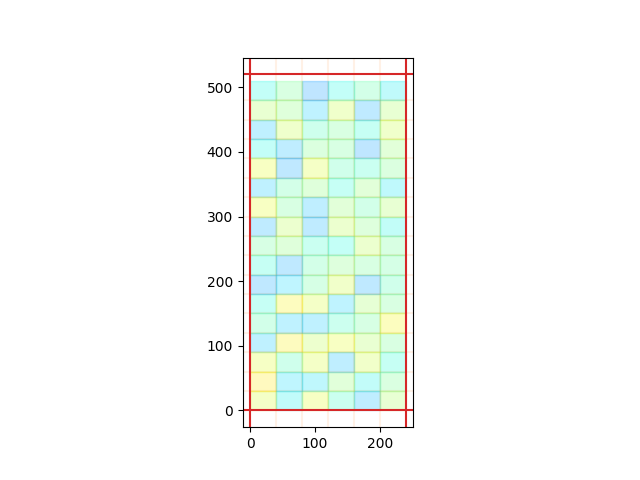
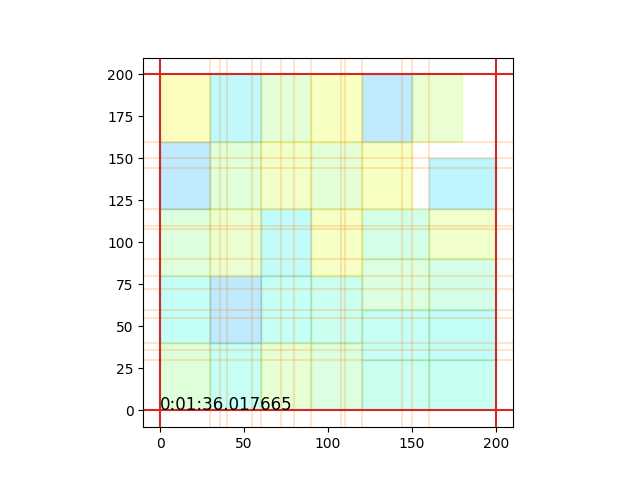
optimized input variables

diff --git a/cuttingStock.py b/cuttingStock.py
@@ -6,16 +6,21 @@ import subprocess
 import numpy as np
 from lib import *
 from config import *
+import time,datetime
+
 
 print("Cutting Stock 2D")
 print("\n###############################################")
-print("Constants:")
-x_pos = calculateSteps( ancho_muro, anchos_poster)
-y_pos = calculateSteps( alto_muro, altos_posters)
-print(x_pos)
-print(y_pos)
 print("Posters:")
 print(posters)
+print("Positions:")
+x_pos = calculateSteps( ancho_muro, anchos_posters)
+y_pos = calculateSteps( alto_muro, altos_posters)
+rectangles = filterOutOfRange(generatePossibleRectangles(x_pos,y_pos,posters),alto_muro,ancho_muro)
+print(x_pos)
+print(y_pos)
+#print("rectangles:")
+#print(rectangles)
 for x in x_pos:
     addVline(x)
 for y in y_pos:
@@ -26,24 +31,18 @@ addVline(0,alpha=1,color = 'tab:red')
 addHline(0,alpha=1,color = 'tab:red')
 print("###############################################")
 print("Writing Input Files")
-writeFile("posters.txt", valuesToZPLTuple(posters))
-writeFile("altos.txt", valuesToZPLList(y_pos))
-writeFile("anchos.txt", valuesToZPLList(x_pos))
-#writeFile("maxAlto.txt",str(alto_muro))
-#writeFile("maxAncho.txt",str(ancho_muro))
-#writeFile("cantidades.txt",valuesToZPLTuple(cantidadesXPoster))
+writeFile("rects.txt", rectanglesToZPLQuad(rectangles))
 print("###############################################")
 print("Solving Problem")
 filename = 'solution.sol'
+start_time = time.time()
 correct = subprocess.run(
     ['scip', '-c', 'read cuttingStock2d.zpl', '-c', 'set display verblevel 3', '-c', 'optimize',  '-c', 'write solution {}'.format(filename), '-c', 'quit'])
+end_time = time.time()
+tiempo = str(datetime.timedelta(seconds=(end_time-start_time)))
 rectangles = parseRectangles(filename)
 addRectangles(rectangles)
-draw("out.png")
 print("###############################################")
+print("Tiempo de calculo del modelo: %s " % tiempo)
 print("Graph written in out.png")
-os.remove("posters.txt")
-os.remove("altos.txt")
-os.remove("anchos.txt")
-#os.remove("maxAlto.txt")
-#os.remove("maxAncho.txt")
+draw("out.png",tiempo)

diff --git a/lib.py b/lib.py
@@ -3,6 +3,7 @@ import matplotlib.pyplot as plt
 import numpy as np
 from rectangle import Rectangle
 import random
+import itertools
 
 
 def findMinimun(posters):
@@ -45,6 +46,11 @@ def valuesToZPLTuple(pos):
         tostr = tostr + str(value[0]) + ";" + str(value[1]) + "\n"
     return tostr[0:len(tostr)-1]
 
+def rectanglesToZPLQuad(rectangles):
+    tostr = ""
+    for value in rectangles:
+        tostr = tostr + str(value.x) + ";" + str(value.y) + ";" + str(value.width) + ";" + str(value.height) + "\n"
+    return tostr[0:len(tostr)-1]
 
 def writeFile(filename, content):
     f = open(filename, "w")
@@ -59,12 +65,27 @@ def findMultiples(start,max):
         temp = temp+start
     return multiples
 
+def filterOutOfRange(rectangles,max_height,max_width):
+    rects = []
+    for rectangle in rectangles:
+        if(rectangle.x+rectangle.width<=max_width):
+            if(rectangle.y+rectangle.height<=max_height):
+                rects.append(rectangle)
+    return rects
+
 def calculateSteps(maxSize, posterSizes):
     w_steps : set = set()
     for poster in posterSizes:
         w_steps = w_steps | set(findMultiples(poster,maxSize))
     w_steps.add(0)
     return w_steps
+
+def generatePossibleRectangles(x,y,posters):
+    rectangles = []
+    for quad in set(itertools.product(x, y , posters)):
+        rectangles.append(Rectangle(quad[0],quad[1],quad[2][0],quad[2][1]))
+    return rectangles
+
 
 def parseRectangles(filename):
     rectangles = []
@@ -101,7 +122,8 @@ def add_shape(patch):
     plt.axis('scaled')
 
 
-def draw(filename):
+def draw(filename,metadata):
+    plt.text(0,0 , metadata, fontsize=12)
     plt.savefig(filename)
 
 
@@ -110,11 +132,11 @@ def addRectangles(drawlist):
         create_rectangle(item)
 
 
-def addHline(y,alpha = 0.1, color ='tab:orange'):
+def addHline(y,alpha = 0.2, color ='tab:orange'):
     plt.axhline(y=y, alpha=alpha, color=color)
 
 
-def addVline(x,alpha = 0.1, color ='tab:orange'):
+def addVline(x,alpha = 0.2, color ='tab:orange'):
     plt.axvline(x=x, alpha=alpha, color=color)
 
 

diff --git a/config.py b/config.py
@@ -1,10 +1,10 @@
 from lib import findMinimun,getCantPerCutHandV,getXorYPosters
-ancho_muro = 240
-alto_muro = 520
+ancho_muro = 200
+alto_muro = 200
 # POSTERS agregar siempre vertical y horizontal, siempre numero par
-posters = [(40,30)]
+posters = [(254,36),(36,254),(104,55),(55,104),(40,30),(30,40)]
 #cantidades = [20,20]
 #cantidadesXPoster = getCantPerCutHandV(cantidades,posters) #(cantidad,ancho*alto)
 #Posibles anchos y altos de posters que entran en el muro
-anchos_poster = getXorYPosters(posters,ancho_muro,'ancho')
+anchos_posters = getXorYPosters(posters,ancho_muro,'ancho')
 altos_posters = getXorYPosters(posters,alto_muro,'alto')
